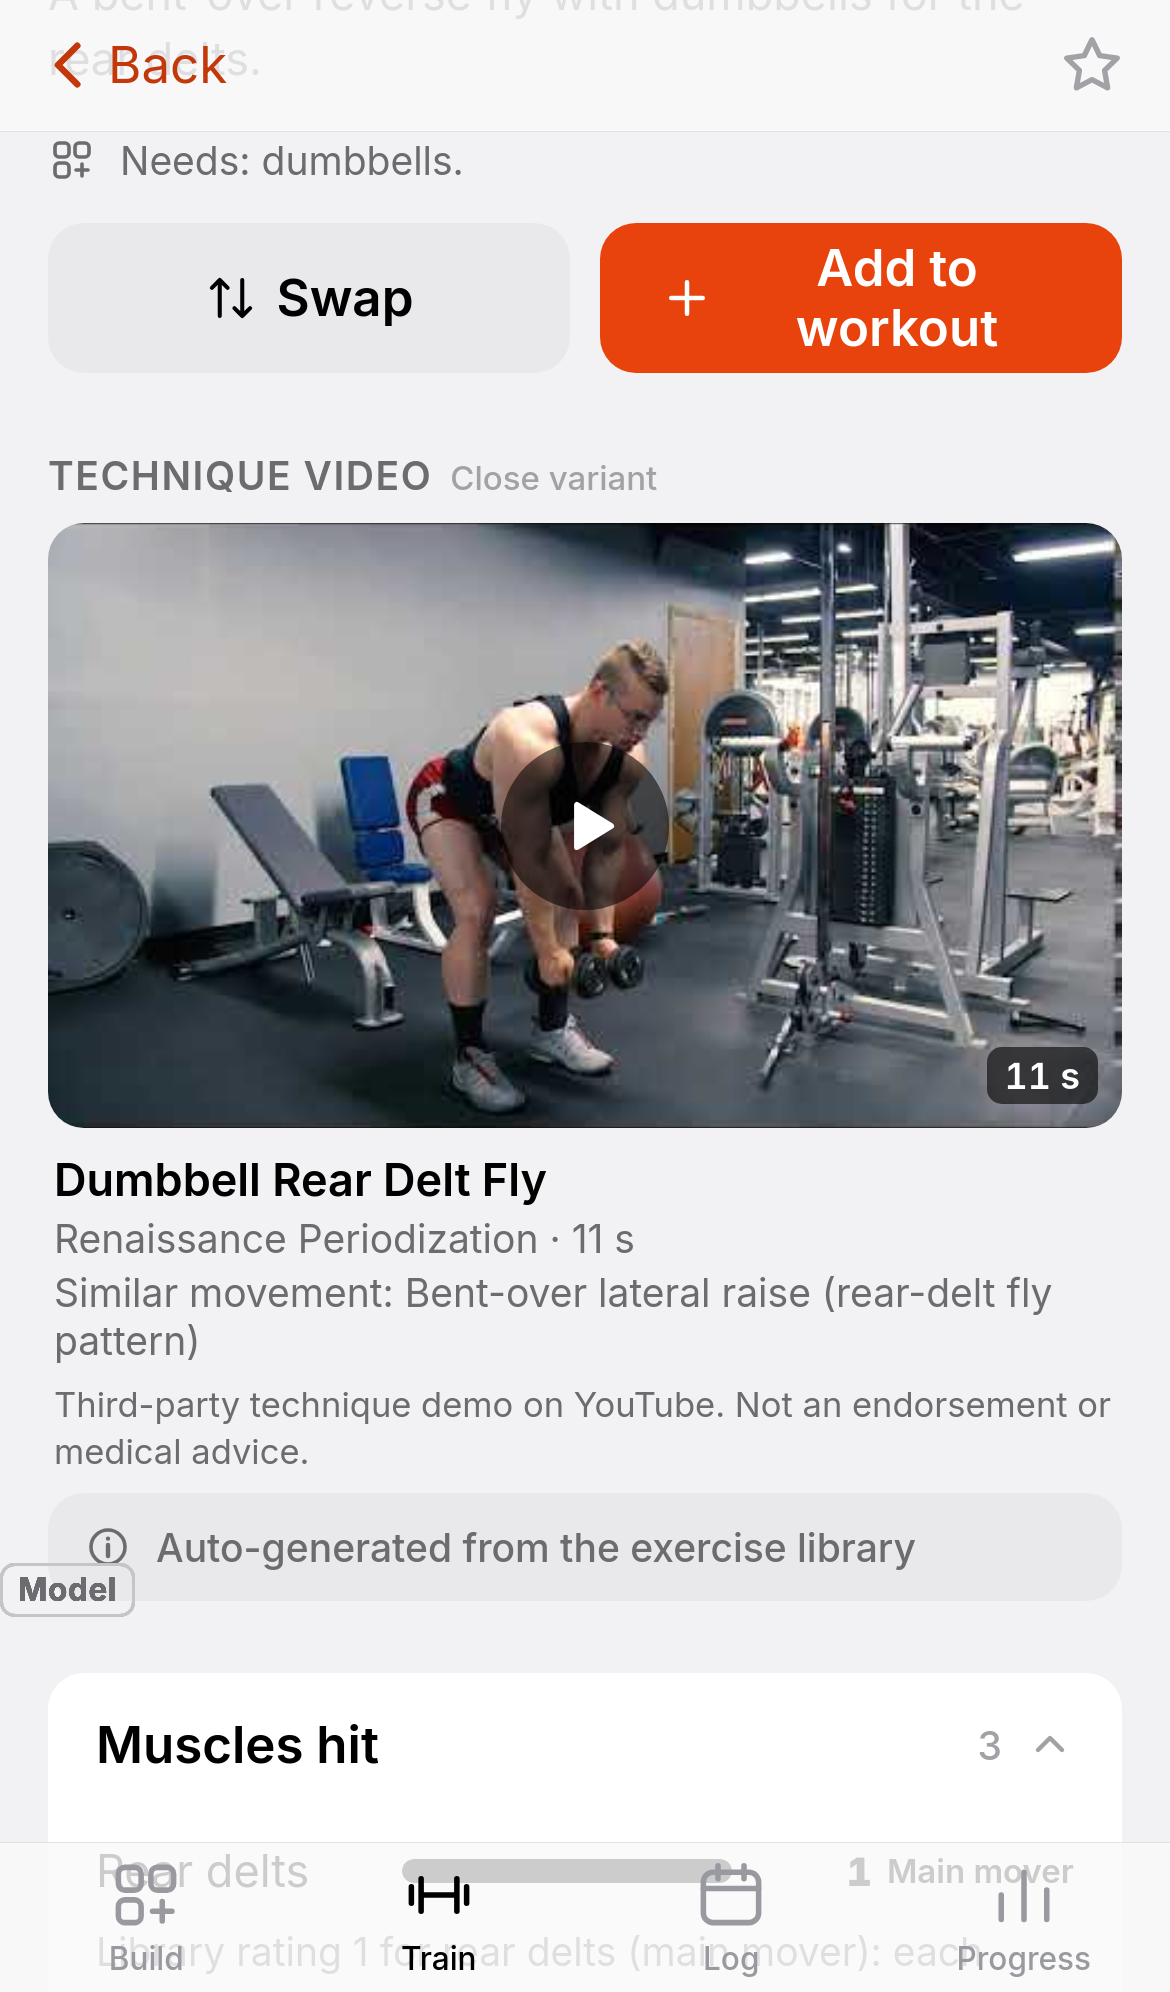
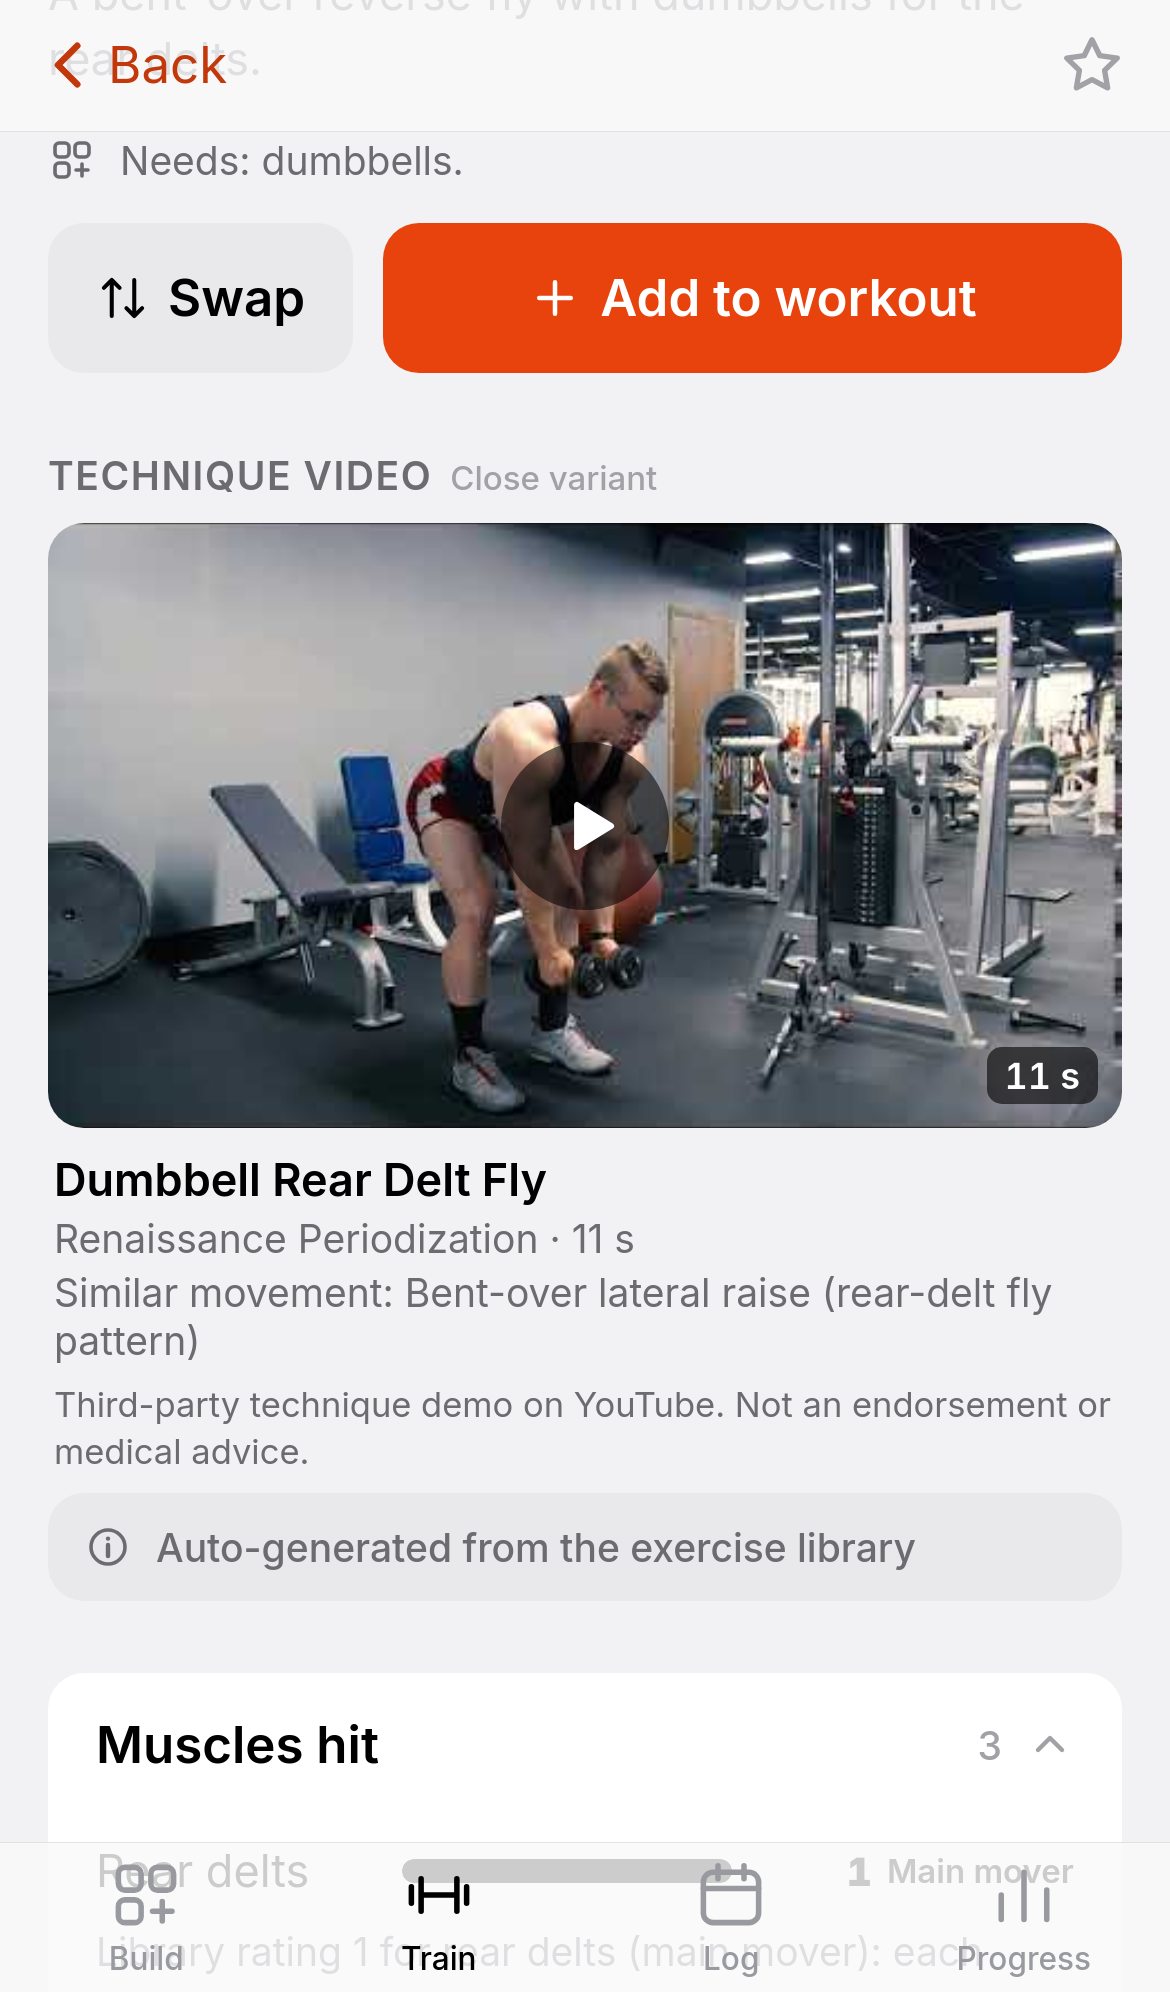
Storyboard: inline Model badges on Learn pages, Add to workout on one line

Changed region(s): [[0.1538, 0.0934, 0.8615, 0.1867], [0.0, 0.7781, 0.1231, 0.8092], [0.0923, 0.1245, 0.1231, 0.1556]]

diff --git a/storyboard/sb.js b/storyboard/sb.js
@@ -1004,7 +1004,7 @@ V.style=()=>`<div class="nav"><div class="l"><button class="back" data-go="#sett
   <div class="card ctl"><div class="two"><button class="btn accent">Primary</button><button class="btn ink">Secondary</button></div><div class="two"><button class="btn grey">Tertiary</button><button class="btn danger">Delete</button></div>
    <div class="seg"><button>Beginner</button><button class="on">Intermediate</button><button>Advanced</button></div>
    <div class="chips" style="padding:0"><button class="chip on">★ Primary</button><button class="chip">${GLY.accessory} Accessory</button><button class="chip">● Isolation</button></div>
-   <div class="tags"><span class="tag acc">More stretch emphasis</span><span class="tag">More stable</span><span class="badge">PR</span><span class="evb ink">Studies</span><span class="evb">Mechanics</span><span class="evb line">Coach model</span></div>
+   <div class="tags"><span class="tag acc">More stretch emphasis</span><span class="tag">More stable</span><span class="badge">PR</span><span class="evb ink">Studies</span><span class="evb">Mechanics</span><span class="evb outl">Coach model</span></div>
    <div class="fields"><input class="fld demo" readonly value="" placeholder="225"><input class="fld demo active" readonly value="230"><input class="fld demo auto" readonly value="230">${tg(1)}${tg(0)}</div>
    <p class="sub">Field: empty · active · auto-filled from the set above</p></div>
   <div class="ghead">Space · radius · motion</div>
@@ -1016,7 +1016,7 @@ V.style=()=>`<div class="nav"><div class="l"><button class="back" data-go="#sett
 // LEARN: rendered only from Coach's data/education (education-spec.md, education v1). index.json drives everything:
 // a page whose status turns "final" appears automatically, no code change. References resolve from references.json.
 const EDU={base:null,idx:null,refs:{},cache:{}};
-const EVL={supported:['Supported','ink'],biomechanics:['Mechanics',''],modeled:['Model','line']};
+const EVL={supported:['Supported','ink'],biomechanics:['Mechanics',''],modeled:['Model','outl']}; // not 'line': that class is the rest bar's absolutely positioned progress line (sb.css .line)
 const BAND=r=>r>=.75?'main':r>=.4?'helper':r>=.25?'minor':null;           // Coach's display bands; < 0.25 not shown
 const BANDL={main:'Main',helper:'Helper',minor:'Minor'};
 const XBANDL={main:'Main mover',helper:'Helper',minor:'Minor',nc:'Not counted'}; // exercise-page labels (exercise-pages-spec §7)

diff --git a/storyboard/sb.css b/storyboard/sb.css
@@ -493,7 +493,7 @@ dd .tag{margin:0 3px 3px 0}
 .rate.main{color:var(--ink)}.rate.minor{color:var(--text-3)}
 .evw{display:inline-flex;align-items:center;gap:3px;vertical-align:1px;white-space:nowrap}
 .evb{display:inline-flex;align-items:center;height:18px;padding:0 6px;border-radius:5px;font-size:10.5px;font-weight:700;letter-spacing:.02em;background:var(--fill);color:var(--ink);white-space:nowrap}
-.evb.ink{background:var(--ink);color:var(--on-ink)}.evb.line{background:transparent;box-shadow:inset 0 0 0 1px var(--line-strong);color:var(--text-2)}
+.evb.ink{background:var(--ink);color:var(--on-ink)}.evb.outl{background:transparent;box-shadow:inset 0 0 0 1px var(--line-strong);color:var(--text-2)}
 .cite{min-width:17px;height:17px;padding:0 4px;border-radius:9px;background:var(--accent-tint);color:var(--accent-press);font-size:10.5px;font-weight:700;display:inline-grid;place-items:center}
 .cite:active{background:var(--accent);color:#fff}
 .refs{padding-left:20px;font-size:var(--t-foot);line-height:1.45}.refs li{margin-bottom:10px}.refs a{color:var(--accent-press);word-break:break-all}
@@ -1128,4 +1128,10 @@ details.ls.flash{box-shadow:0 0 0 3px var(--accent);border-radius:var(--r-md)}
 .xvf{padding:6px 2px 0!important;font-size:11.5px}
 .xwatch{display:inline-flex;align-items:center;gap:4px;margin-left:auto;align-self:center;background:none;border:0;padding:6px 0;font-size:15px;font-weight:600;color:var(--accent-press);-webkit-appearance:none;appearance:none}
 .xwatch svg{width:14px;height:14px}
+/* Learn page: evidence badges always sit inline in their text (never absolutely positioned) */
+.evw,.evb{position:static}
+/* Learn page actions: 'Add to workout' stays on one line; on narrow phones the row gives the wider label more room */
+#lx .pad.two{grid-template-columns:minmax(0,auto) minmax(0,1fr)}
+#lx .pad.two .btn{white-space:nowrap;min-width:0;padding:0 16px}
+@media (max-width:350px){#lx .pad.two .btn{padding:0 12px;font-size:16px}#lx .pad.two .btn svg{width:18px;height:18px}}
 

diff --git a/storyboard/ARCHITECTURE-web-storyboard.md b/storyboard/ARCHITECTURE-web-storyboard.md
@@ -364,3 +364,8 @@ The suite runs all three (`r3*` checks).
 - Exercise detail card: a quiet "▶ Watch" link (`.xwatch`) in the header only when a video exists; it goes to `#learn-ex-<id>~video`, which scrolls to the block.
 - Tests: `test/videos.test.js` (exact / close variant / none, no video title rendered on any of the 228 video pages (text and aria-label / alt / title attributes; the Similar-movement line is Coach's note and is excluded), [P]rehab shown as The Prehab Guys, iframe title = our name, no iframe before the tap, nocookie src, Watch link present only with a video and lands on the block, no hardcoded ids); sb.test.js calls it. Shots 42a–42e.
 - Learn page fix: `afterLearnEx` drops a stale render when a newer Learn page was opened while it loaded.
+
+**Learn page fixes (2026-10-23)**
+- Evidence badges: the Model badge used class `evb line`, and `.line` is the rest bar's progress line (`position:absolute; left:0; bottom:0`). So every Model badge was taken out of the text flow and pinned to the left edge, even inside closed sections and over the video footer. The variant is now `evb outl`, and `.evw, .evb` are `position:static`.
+- 'Add to workout' stays on one line: on Learn pages the action row is `auto | 1fr`, the buttons are `nowrap`, and at 350 px and narrower the padding and font shrink a little.
+- Test: `test/learnfix.test.js` (called by sb.test.js) runs at 390 and 320 px on bench press, rear delt fly and seated calf raise, with sections collapsed and expanded. It checks that badges are static, never painted while their section is closed, sit inside their section and never overlap the video block; that 'Add to workout' is one line, fits, and stays in view; and that the rest bar's line is still absolutely positioned. Shot 43a.
